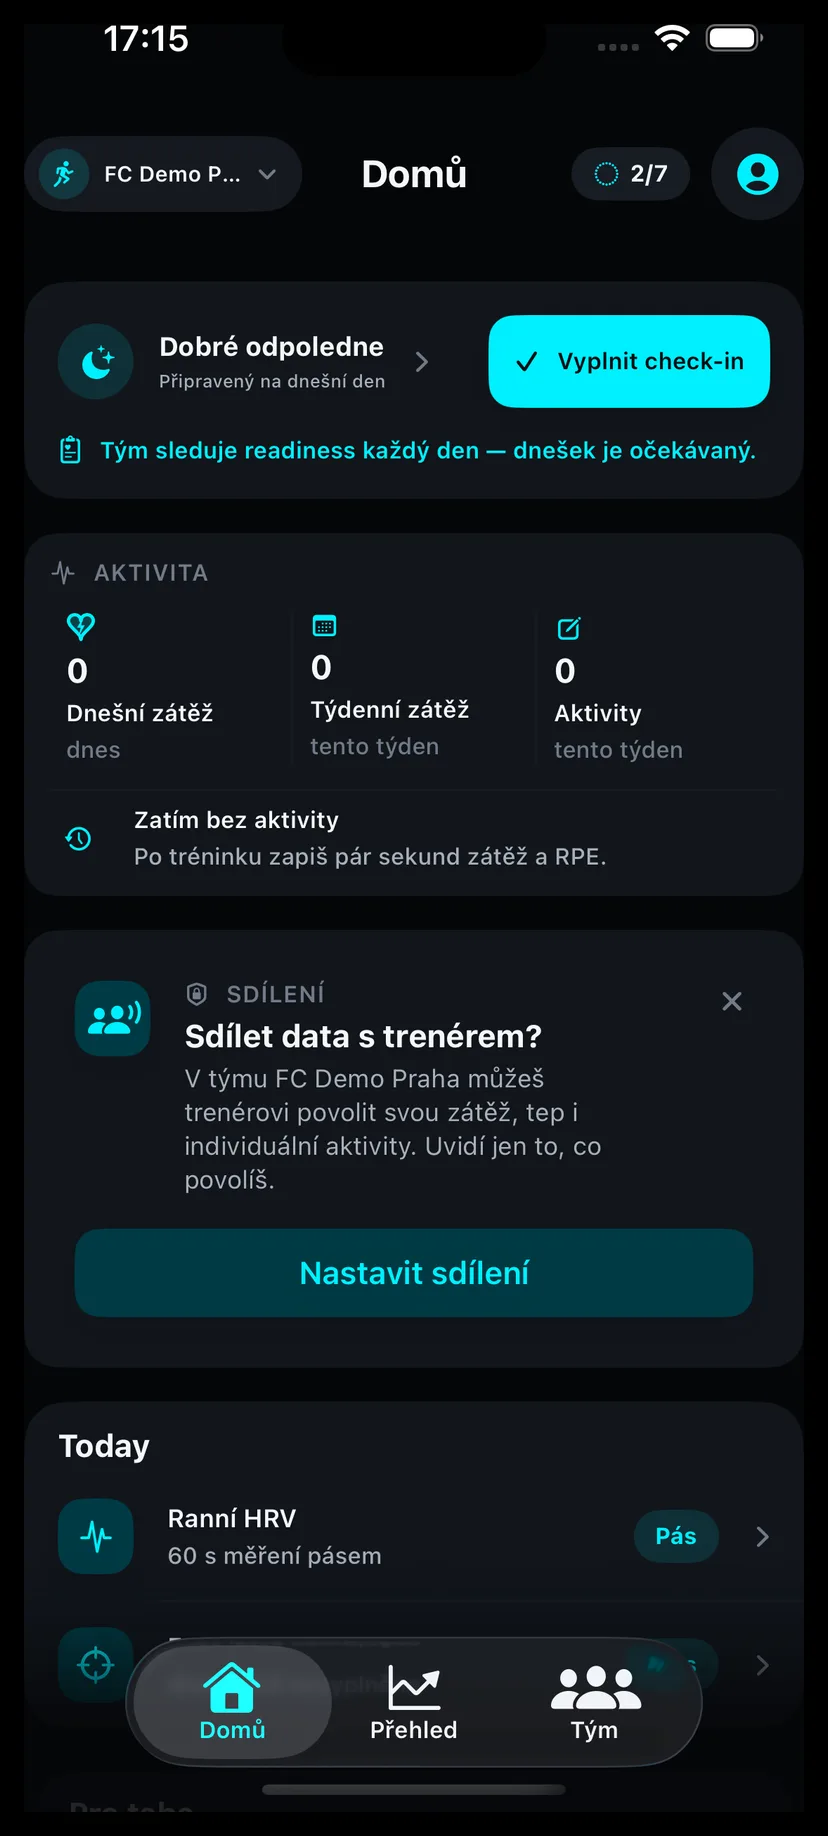
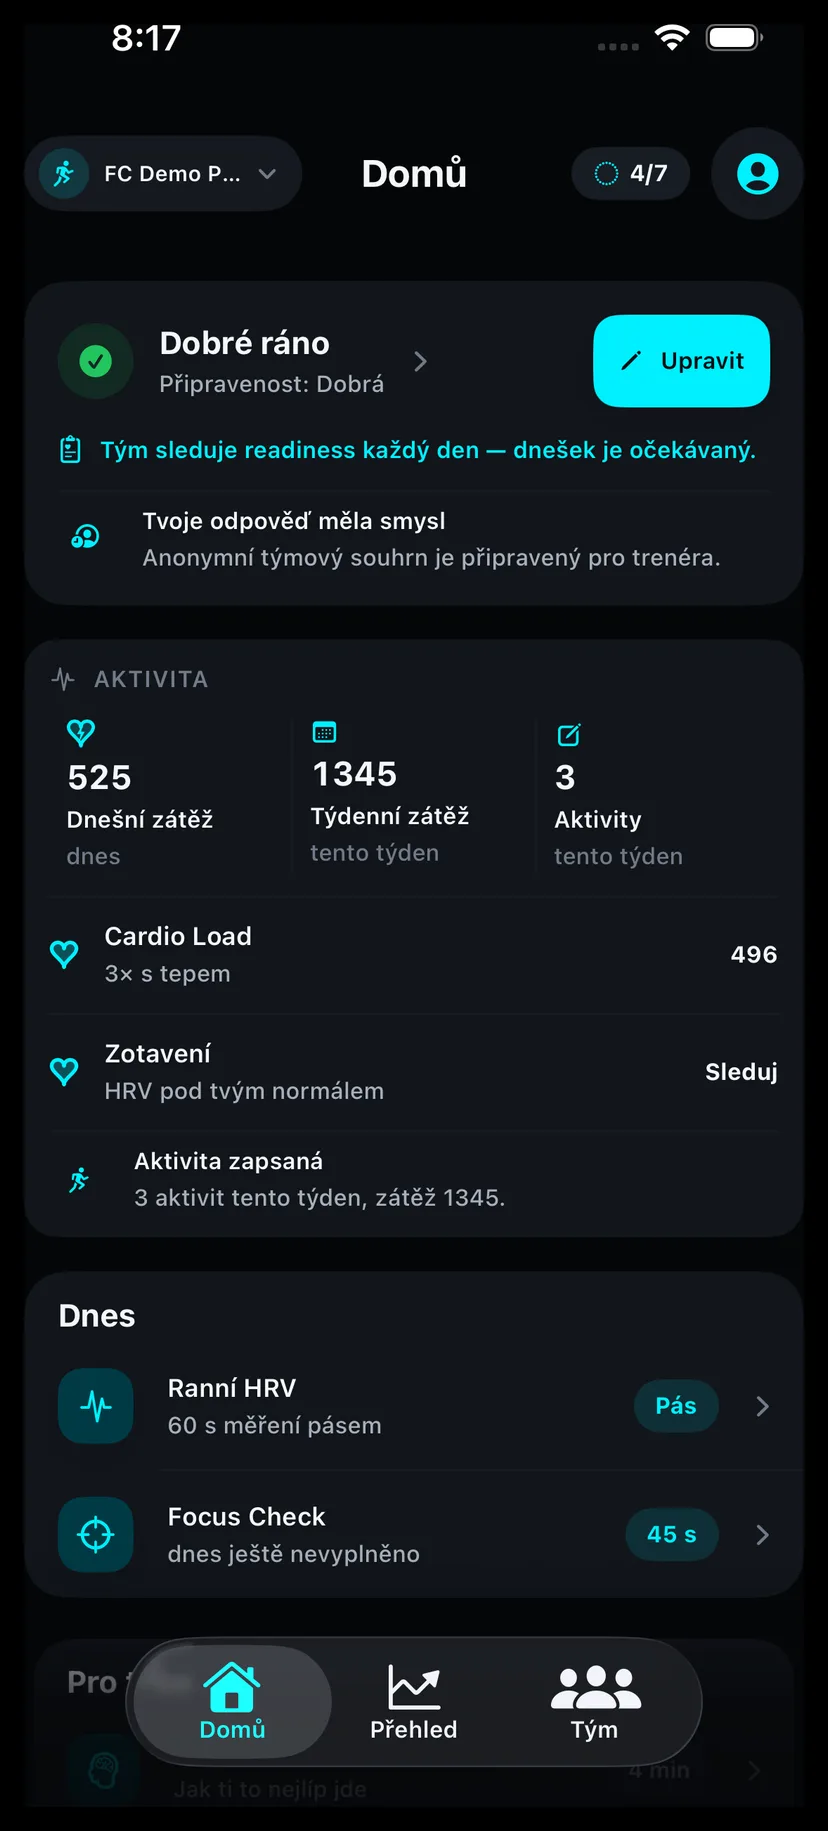
help: real training data, and stop promising weekly planning
Screenshots re-shot against a seeded club where the numbers exist: the
roster now shows all eight readiness bars with a genuine spread instead
of seven greys, the player's Home and Overview carry 1345 AU across
three sessions rather than three zeros, and a finished session shows a
360 AU plan against 372 AU actual. Adds a live session with players in
heart-rate zones and a match report with shot maps.

The grey bars were never a capture problem — the players had submitted
their check-ins but were not sharing them, so the day view counted them
and the roster was not allowed to draw them.

The coach copy claimed a weekly schedule and a planned week. It no
longer exists: planned sessions and their editor were removed, and a
coach starts a training or a match on the spot from Activities. The
text now says that instead. Note the landing's own sessions stage still
opens with "Naplánuj trénink" — same claim, outside this section, left
alone deliberately.

Not used: the stitched two-screen match report composite, and the
session detail's header, which reads "Plán není vyplněný" directly
above a filled-in 360 AU plan.

diff --git a/src/i18n/ui.ts b/src/i18n/ui.ts
@@ -421,10 +421,10 @@ export const ui = {
     'help.install.first.caption': 'Po dokončení nastavení se otevře první osobní přehled.',
 
     'help.coach.metaTitle': 'Melveo pro trenéra',
-    'help.coach.metaDescription': 'Jak v Melveo založit tým, pozvat hráče a pracovat s coach boardem, rozpisem a sessions.',
+    'help.coach.metaDescription': 'Jak v Melveo založit tým, pozvat hráče a pracovat s denním přehledem, soupiskou a tréninky.',
     'help.coach.eyebrow': 'Pro trenéra',
     'help.coach.title': 'Založ tým a připrav první session',
-    'help.coach.lead': 'Po přihlášení vytvoříš tým ve dvou krocích. Potom můžeš spravovat soupisku, rozpis a tréninky.',
+    'help.coach.lead': 'Po přihlášení vytvoříš tým ve dvou krocích. Potom vidíš denní připravenost týmu a spouštíš tréninky a zápasy.',
     'help.coach.createTitle': 'Vytvoření týmu',
     'help.coach.step1.title': 'Zvol „Vytvořit vlastní tým“',
     'help.coach.step1.body': 'Po přihlášení a doplnění jména se otevře rozcestník. Vyber vytvoření týmu.',
@@ -453,6 +453,14 @@ export const ui = {
       'Detail check-inu hráče očima trenéra: pět hodnocených os a mapa těla s vyznačeným bolavým ramenem',
     'help.coach.detail.caption':
       'U hráče, který hlásí bolest, vidíš jeho odpovědi i místo, které ho bolí — pokud sdílení povolil.',
+    'help.coach.session.alt':
+      'Detail dokončeného tréninku: plán 360 AU proti skutečným 372 AU a rozdíl +12 AU',
+    'help.coach.session.caption':
+      'Po tréninku vidíš plán proti skutečnosti a doporučení, co s příštím.',
+    'help.coach.live.alt':
+      'Živý trénink na iPadu s běžícími stopkami a hráči rozdělenými do tepových zón',
+    'help.coach.live.caption':
+      'Během tréninku vidíš, kdo je v jaké tepové zóně.',
     'help.coach.inviteTitle': 'Pozvi hráče',
     'help.coach.inviteBody': 'Pošli hráčům aktuální pozvánkový kód, odkaz nebo QR. Kód má 6 až 8 znaků a hráč před přijetím uvidí název týmu i sport.',
     'help.coach.homeTitle': 'Týmové nástroje nejsou uvnitř Domů',
@@ -462,8 +470,8 @@ export const ui = {
     'help.coach.tool1.body': 'Dnešní týmový přehled pro práci před tréninkem nebo zápasem.',
     'help.coach.tool2.title': 'Soupiska',
     'help.coach.tool2.body': 'Přehled hráčů v týmu.',
-    'help.coach.tool3.title': 'Týdenní rozpis',
-    'help.coach.tool3.body': 'Přehled naplánovaného týdne.',
+    'help.coach.tool3.title': 'Spuštění tréninku',
+    'help.coach.tool3.body': 'Trénink nebo zápas spustíš v Aktivitách. Zátěž a RPE zapíšeš po skončení.',
     'help.coach.tool4.title': 'Sessions',
     'help.coach.tool4.body': 'Spuštění tréninku nebo zápasu.',
     'help.coach.tool5.title': 'Reporty ze zápasů',
@@ -512,6 +520,14 @@ export const ui = {
       'Wellness trend hráče za posledních sedm dní s křivkou bolestivosti a denním deníkem',
     'help.player.trend.caption':
       'Z denních check-inů vzniká trend. Přepneš si 7, 30 nebo 90 dní.',
+    'help.player.overview.alt':
+      'Osobní přehled hráče: 1 345 AU za týden, 3 tréninky, kardio zátěž TRIMP 496 a klidový tep',
+    'help.player.overview.caption':
+      'Z odtrénovaného vzniká týdenní zátěž, kardio zátěž a zotavení.',
+    'help.player.match.alt':
+      'Zápasový report hráče se střeleckými mapami a úspěšností zakončení',
+    'help.player.match.caption':
+      'Po zápase vidíš svoje statistiky, odkud jsi střílel a kam.',
     'help.player.homeTitle': 'Co uvidíš po přihlášení',
     'help.player.team.alt': 'Seznam spoluhráčů v týmu v aplikaci Melveo',
     'help.player.team.caption': 'Záložka Tým ukazuje soupisku, ve které jsi.',
@@ -916,10 +932,10 @@ export const ui = {
     'help.install.first.caption': 'The first personal dashboard opens after setup.',
 
     'help.coach.metaTitle': 'Melveo for coaches',
-    'help.coach.metaDescription': 'How to create a team in Melveo and work with the coach board, roster, schedule, and sessions.',
+    'help.coach.metaDescription': 'How to create a team in Melveo and work with the daily team view, roster, and training sessions.',
     'help.coach.eyebrow': 'For coaches',
     'help.coach.title': 'Create a team and prepare the first session',
-    'help.coach.lead': 'After signing in, you create a team in a two-step wizard. You can then manage the roster, schedule, and training sessions.',
+    'help.coach.lead': 'After signing in, you create a team in a two-step wizard. You then see the team’s daily readiness and start training sessions and matches.',
     'help.coach.createTitle': 'Create a team',
     'help.coach.step1.title': 'Choose the create-team option',
     'help.coach.step1.body': 'After sign-in and your profile name, the three-way chooser opens. Select the option to create your own team.',
@@ -948,6 +964,14 @@ export const ui = {
       'A player’s check-in as the coach sees it: five rated axes and a body map with a sore shoulder marked',
     'help.coach.detail.caption':
       'For a player reporting pain you see their answers and where it hurts — if they shared it.',
+    'help.coach.session.alt':
+      'A finished session: a 360 AU plan against 372 AU actual, a +12 AU difference',
+    'help.coach.session.caption':
+      'After a session you see plan against reality, and what to do with the next one.',
+    'help.coach.live.alt':
+      'A live training session on iPad with a running clock and players grouped by heart-rate zone',
+    'help.coach.live.caption':
+      'During a session you see which heart-rate zone each player is in.',
     'help.coach.inviteTitle': 'Invite players',
     'help.coach.inviteBody': 'Share the current invite code, invitation link, or QR code with players. Codes contain 6 to 8 characters, and players see the team name and sport before joining.',
     'help.coach.homeTitle': 'Team tools are not inside Home',
@@ -957,8 +981,8 @@ export const ui = {
     'help.coach.tool1.body': 'Today’s team view for work before training or a match.',
     'help.coach.tool2.title': 'Roster',
     'help.coach.tool2.body': 'An overview of players on the team.',
-    'help.coach.tool3.title': 'Weekly schedule',
-    'help.coach.tool3.body': 'A view of the planned week.',
+    'help.coach.tool3.title': 'Starting a session',
+    'help.coach.tool3.body': 'Start a training session or match from Activities. Load and RPE get recorded afterwards.',
     'help.coach.tool4.title': 'Sessions',
     'help.coach.tool4.body': 'Launch a training session or match.',
     'help.coach.tool5.title': 'Match reports',
@@ -1007,6 +1031,14 @@ export const ui = {
       'A player’s wellness trend over the last seven days, with a soreness curve and a daily log',
     'help.player.trend.caption':
       'Daily check-ins build a trend. Switch between 7, 30, and 90 days.',
+    'help.player.overview.alt':
+      'A player’s overview: 1,345 AU for the week, 3 sessions, cardio load TRIMP 496, and resting heart rate',
+    'help.player.overview.caption':
+      'What you train becomes weekly load, cardio load, and recovery.',
+    'help.player.match.alt':
+      'A player’s match report with shot maps and finishing accuracy',
+    'help.player.match.caption':
+      'After a match you see your stats, where you shot from, and where it went.',
     'help.player.homeTitle': 'What you see after signing in',
     'help.player.team.alt': 'The list of teammates in the Melveo app',
     'help.player.team.caption': 'The Team tab shows the squad you belong to.',

diff --git a/docs/help-screenshots-prompt-3.md b/docs/help-screenshots-prompt-3.md
@@ -1,0 +1,101 @@
+# Prompt: dokončení screenshotů pro nápovědu melveo.app (3. kolo)
+
+Navazuje na `help-screenshots-prompt.md` (prostředí, build, seed) a
+`help-screenshots-prompt-2.md` (co znamená „věrohodná data“). Prostředí a
+technické požadavky z nich platí beze změny — sem je neopisuju.
+
+**Stav:** nápověda je živá na https://melveo.app/cs/napoveda/ a jede na 23
+screenshotech. Z minulé dodávky šesti se použily tři: `coach-board-data`,
+`player-detail` a `wellness-trend`. Ty byly výborné. Tenhle prompt řeší
+zbývající tři, které se použít nedaly, tři, které vůbec nepřišly, a jednu
+otázku, na kterou potřebuju odpověď místo obrázku.
+
+---
+
+## Část 1 — tři, které je potřeba přefotit
+
+### 1a. `prehled-data.png` a `player-home-data.png` — pořád vedou nulami
+
+Na Přehledu je největší číslo na obrazovce **`0/- AU` a `0 tréninků`**, kardio
+zátěž **TRIMP 0**. Na Domů jsou v bloku Aktivita **tři nuly** a text „Zatím bez
+aktivity“. Přitom kartička „Aktivity · Dnes · 52 min · Posilovna“ na Přehledu
+reálná byla.
+
+**Diagnóza:** data se povedlo dostat do týmových a wellness pohledů, ale ne do
+**osobní tréninkové zátěže**. Účtu, přes který se fotilo, chybí zaznamenané
+tréninky s AU a RPE.
+
+**Co je potřeba udělat, aby to bylo hotové:** u toho účtu zaznamenat **2–3
+tréninky za tento týden** s vyplněnou zátěží a RPE, a aspoň jeden i minulý týden,
+ať má týdenní srovnání proti čemu stát. Teprve pak fotit. Chci vidět nenulovou
+dnešní i týdenní zátěž, počet tréninků aspoň 3 a sérii splnění aspoň pár týdnů.
+
+### 1b. `coach-roster-data.png` — sedm z osmi proužků připravenosti je šedých
+
+Barevný proužek má jediný hráč, zbylých sedm je prázdných. To je proti minulému
+kolu **krok zpět** (tehdy byly tři z osmi šedé) a hlavně to **odporuje** obrázku
+`coach-board-data`, který vedle toho hlásí „7/8 check-inů“. Vedle sebe na jedné
+stránce by to čtenář přečetl jako chybu produktu.
+
+**Hypotéza, kterou prosím ověř:** hráči check-in odeslali, ale **nesdílejí ho
+s trenérem**, takže denní přehled je započítá a soupiska je zobrazit nesmí. Na
+`wellness-trend` je vidět štítek „Nesdíleno“ a text „HRV hráč nesdílí“, což tomu
+odpovídá.
+
+Jestli je to tak, oprava není v focení, ale v datech: **zapnout sdílení
+u aspoň šesti z osmi hráčů** a pak teprve fotit. Ať výsledek ukazuje rozptyl —
+pár zelených, dva tři žluté, jeden červený.
+
+Jestli je příčina jiná, napiš jaká. Pokud jde o chybu v appce, chci to vědět —
+nebudu ji zakrývat vhodně zvoleným screenshotem.
+
+---
+
+## Část 2 — tři, které nepřišly
+
+Zadané byly v druhém kole, ve skupině B. Pořád je chci, se stejnými požadavky na
+data:
+
+| Soubor | Obrazovka | Jaká data |
+|---|---|---|
+| `session-summary.png` | Shrnutí po dokončeném tréninku | Docházka, RPE, zátěž — plán versus skutečnost. |
+| `live-training.png` | Živý trénink | Běžící stopky, hráči rozdělení do tepových zón, aspoň dva s aktivním pásem. |
+| `match-report.png` | Zápasový report hráče | Odehraný zápas s výsledkem, osobní statistiky, střelecká mapa, tepová křivka. |
+
+---
+
+## Část 3 — otázka, ne screenshot
+
+Původní obrazovky týdenního plánu a rozvrhu (`ScheduleWeekView`, `WeekPlanView`)
+jsou v kódu appky **mrtvé** — nic na ně nenaviguje, existují jen proto, že si je
+snapshot testy vykreslují izolovaně. Kvůli tomu jsem ze stránek odstranil obrázek
+kalendáře, který v appce už neexistuje.
+
+**Potřebuju vědět, čím dnes trenér plánuje týden.** Podle odpovědi přepíšu text
+trenérské stránky, který o plánování pořád mluví.
+
+- Když taková obrazovka existuje → nafoť ji jako `planning.png`, s týdnem,
+  ve kterém jsou aspoň dva tréninky a jeden zápas, ideálně s plánovanou zátěží.
+- Když neexistuje → napiš to jednou větou. Text přepíšu tak, aby neslibovala
+  něco, co produkt neumí.
+
+---
+
+## Připomenutí ke zpracování
+
+- **Zdrojové PNG nedávej do `public/`.** Minule tam byly a kopírovaly se do
+  produkčního buildu. Dej je kamkoli mimo a pošli cestu.
+- **Sheety foť tak, aby za nimi nebyla vidět půlka jiné obrazovky.**
+- **Spodní plovoucí lišta překrývá obsah** — u `player-detail` a `wellness-trend`
+  jsem musel ořezávat nad ní. Když půjde odscrollovat tak, aby podstatné nebylo
+  pod lištou, ušetří to práci.
+- Ořez, WebP a optimalizaci dělám já.
+
+## Co dodat spolu se snímky
+
+1. Cestu ke složce.
+2. **Commit SHA aplikace.**
+3. **Jak jsi data dostal do appky** — u minulé dodávky tohle chybělo a je to
+   přesně ta informace, která by teď ušetřila celé jedno kolo.
+4. Které obrazovky se nepodařilo nafotit a proč.
+5. Odpověď na část 3.
